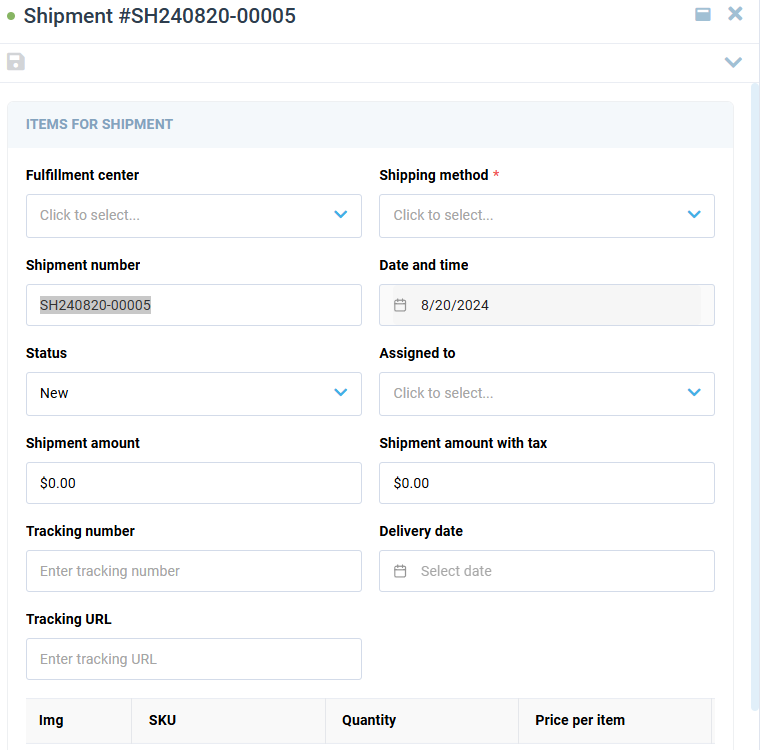
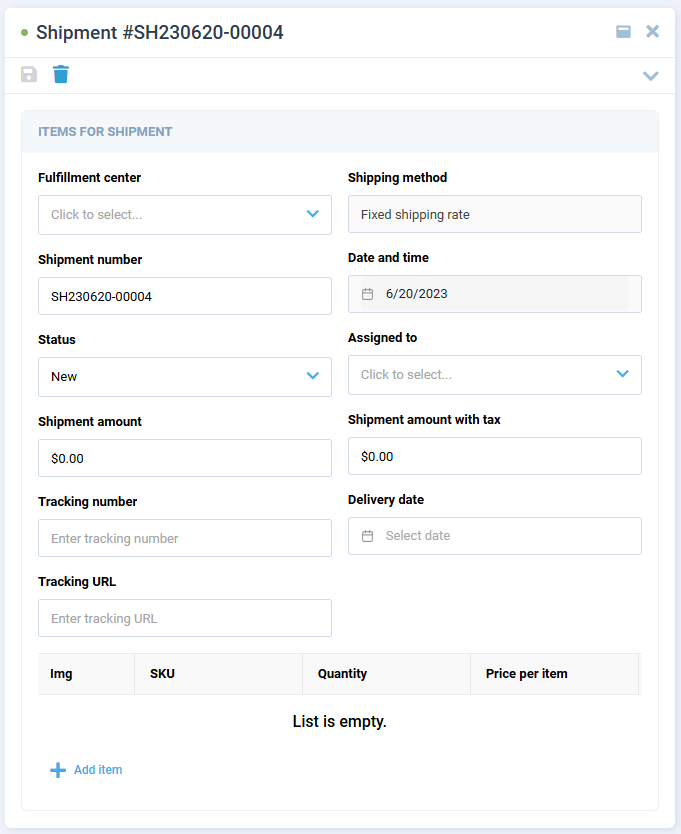
Added: Sprint 17 updates

diff --git a/marketplace/user-guide/docs/Vendor-portal/products-management.md b/marketplace/user-guide/docs/Vendor-portal/products-management.md
@@ -3,7 +3,7 @@
 The **Products** menu item includes:
 
 - **Marketplace Products**: Products uploaded by all vendors in the marketplace. Use this section to [add your own offer to another vendor's products](products-management.md#add-offer-to-another-vendors-product). 
-- **My Products**: Products uploaded by the current vendor in their marketplace. Use this section to [add your own products](products-management.md#add-own-product) and [offers](products-management.md#add-offer-to-own-product).
+- **My Products**: Products uploaded by the current vendor in their marketplace. Use this section to [add your own products](products-management.md#add-own-product) and [offers](products-management.md#add-offer-to-own-product) or [manage product associations](products-management.md#manage-product-associations). 
 
 A product can be associated with multiple offers, each of which provides a specific product variation, its price, and its inventory. Each offer can contain multiple price tags, reflecting various pricing strategies or conditions. In the example below,  the product ("Laptop Model A") is associated with different offers, each offer has multiple price tags:
 
@@ -74,3 +74,19 @@ After your product has been approved by an Operator portal manager it appears in
 Your offer has been added to the product. Another way to add offers to your products is described [here](offers.md#add-offers-to-product).
 
 Complete your offer by [adding price tags](offers.md#add-price-tags-to-offer).
+
+## Manage product associations
+
+To increase sales and improve product discovery, Vendors can manage product associations:
+
+1. Click **My Products** in the main menu to open the list of your products.
+1. In the next blade, select the desired product.
+1. In the next blade, click on the **Associations** widget.
+
+    ![Product associations](media/product-associations.png)
+
+1. In the next blade, add associations to the product:
+
+    ![Associations blade](media/associations-blade.png)
+
+The associations have been added.

diff --git a/platform/user-guide/docs/contacts/managing-contacts.md b/platform/user-guide/docs/contacts/managing-contacts.md
@@ -8,6 +8,8 @@ Managing contact entities (companies, employees, customers, and vendors) include
 * [Exporting contacts.](managing-contacts.md#export-contacts)
 * [Importing contacts.](managing-contacts.md#import-contacts)
 * [Updating contacts.](managing-contacts.md#import-contacts)
+* [Sharing contacts.](managing-contacts.md#share-contacts)
+* [Setting default company.](managing-contacts.md#set-default-company)
 * [Assigning multiple organizations to contacts and employees.](managing-contacts.md#assign-multiple-organizations-to-contacts-and-employees)
 
 ## Add contacts
@@ -110,6 +112,29 @@ Your contacts have been uploaded.
 ## Update contacts
 
 The procedure for updating contacts is similar to the one for [importing contacts](managing-contacts.md#import-contacts). The system finds organizations by Id or outer Id and updates them. 
+
+
+## Share contacts
+
+Contact URLs now include the member ID slug, allowing for easy sharing with colleagues or partners:
+
+![Contact URLs](media/contact-urls.png)
+
+You can also share company name and company ID by copying them from the dropdown menu:
+
+![Contact ID](media/contact-id-name.png)
+
+## Set default company
+
+Administrators can now set a default company for an employee, so that they can log in to that company by default upon first login or after changing the default company:
+
+1. Click **Contacts** in the main menu.
+1. In the next blade, select an employee.
+1. In the next blade, set a default company for them.
+
+	![Default company](media/default-company.png)
+
+1. Click **Save** in the toolbar to save the changes. 
 
 ## Assign multiple organizations to contacts and employees
 

diff --git a/platform/user-guide/docs/azure-ad/overview.md b/platform/user-guide/docs/azure-ad/overview.md
@@ -1,0 +1,22 @@
+# Azure AD
+
+Azure AD is a module that provides users with a simplified sign-in experience. It allows users to access multiple applications with a single set of credentials, eliminating the need to remember different usernames and passwords for each application.
+
+The Azure AD module integrates Virto Commerce with Azure AD to provide secure authentication and authorization for cloud and on-premises applications. This helps to improve productivity, security, and user satisfaction by reducing the number of times users are prompted for their credentials.
+
+[![Source code](media/source_code.png)](https://github.com/VirtoCommerce/vc-module-azure-ad)
+
+[![Latest release](media/latest_release.png)](https://github.com/VirtoCommerce/vc-module-azure-ad/releases)
+
+
+## Key features
+
+* The Azure AD module can be integrated with both the Virto Commerce Platform and the Frontend Application:
+
+    ![Platform and Frontend integration](media/frontend-platform.png)
+
+* Supports single-tenant and multi-tenant configurations.
+
+![Readmore](media/readmore.png){: width="25"} [Using Azure AD as SSO provider in the Platform](../../../developer-guide/Fundamentals/Security/extensions/adding-azure-as-sso-provider)
+
+![Readmore](media/readmore.png){: width="25"} [Using Azure AD as SSO provider in the Frontend Application](../../../../storefront/developer-guide/authentication/adding-sso-provider)

diff --git a/platform/user-guide/docs/google-sso/overview.md b/platform/user-guide/docs/google-sso/overview.md
@@ -1,0 +1,20 @@
+# Google SSO
+
+Google Single Sign-On (SSO) is a module that provides users with a simplified sign-in experience. It allows users to access multiple applications with a single set of credentials, eliminating the need to remember different usernames and passwords for each application.
+
+The Google SSO module integrates Virto Commerce with Google to provide secure authentication and authorization for cloud and on-premises applications. This helps to improve productivity, security, and user satisfaction by reducing the number of times users are prompted for their credentials.
+
+[![Source code](media/source_code.png)](https://github.com/VirtoCommerce/vc-module-google-sso)
+
+[![Latest release](media/latest_release.png)](https://github.com/VirtoCommerce/vc-module-google-sso/releases)
+
+
+## Key features
+
+The Google SSO module can be integrated with both the Virto Commerce Platform and the Frontend Application:
+
+![Platform and Frontend integration](media/frontend-platform.png)
+
+![Readmore](media/readmore.png){: width="25"} [Using Google as SSO provider in the Platform](../../../developer-guide/Fundamentals/Security/extensions/adding-google-as-sso-provider)
+
+![Readmore](media/readmore.png){: width="25"} [Using Google as SSO provider in the Frontend Application](../../../../storefront/developer-guide/authentication/adding-google-as-sso-provider)

diff --git a/platform/user-guide/docs/white-labeling/customizing-brand-elements.md b/platform/user-guide/docs/white-labeling/customizing-brand-elements.md
@@ -32,18 +32,30 @@ To enable white labeling via the **Contacts** module:
 
 White labeling has been enabled.
 
-## Customize logo and favicon
+## Customize logo and favicon via Contacts
 
 To start using white labeling:
 
-1. Complete steps 1-4 from the instruction above.
+1. Complete steps 1-4 from the instruction [above](customizing-brand-elements.md#customize-logo-and-favicon-via-contacts).
 1. In the **White Labeling** blade, click on the **Logo** widget to upload your company's logo.
-1. Click on the favicon logo to upload favicon.
+1. Click on the **Favicon** widget to upload your favicon.
 1. Click **Save** in the toolbar to save the changes.
 
 Your changes have been applied.
 
 ![Before and after white labeling](media/before-after.png)
+
+## Customize logo and favicon via Stores
+
+To start using white labeling:
+
+1. Complete steps 1-2 from the instruction [above](customizing-brand-elements.md#customize-logo-and-favicon-via-stores).
+1. In the next blade, click on the **White labeling** widget.
+1. In the **White labeling** blade, click on the **Logo** widget to upload your company's logo.
+1. Click on the **Favicon** widget to upload your favicon.
+1. Click **Save** in the toolbar to save the changes.
+
+Your changes have been applied.
 
 ## Customize footer
 

diff --git a/marketplace/user-guide/docs/Vendor-portal/orders.md b/marketplace/user-guide/docs/Vendor-portal/orders.md
@@ -23,7 +23,7 @@ To edit the order:
 Your modifications have been applied. 
 
 !!! note
-    The order image tells you how many items are in the order:
+    The order image tells you how many items are there in the order:
     ![Number of items in order](media/marketplace-items.png)
 
 ## Process order
@@ -64,3 +64,8 @@ A new shipment has been created.
 !!! note
     Users can also [create shipment documents in the Platform](../../../../platform/user-guide/order-management/managing-documents#create-shipment-documents).
 
+### Add items to shipment
+
+When creating or editing a shipment, users can add items to the shipment by clicking **Add item** at the bottom of the blade. In the new blade, users can edit the quantity of items:
+
+![Add items to shipment](media/edit-shipment-items.png)

diff --git a/marketplace/user-guide/docs/Operator-portal/marketplace-products.md b/marketplace/user-guide/docs/Operator-portal/marketplace-products.md
@@ -38,6 +38,11 @@ The product status in the list of products changes for **Rejected** in both Oper
 
 ![New statuses](media/decline-statuses.png)
 
+!!! note
+    Operators can now unpublish and republish products. This feature allows operators to quickly remove products that do not meet the marketplace’s standards, have become outdated, or are no longer aligned with the marketplace’s goals.
+
+    ![Unpublish product](media/unpublish-products.png)
+
 
 ## Manage product from Vendor portal
 
